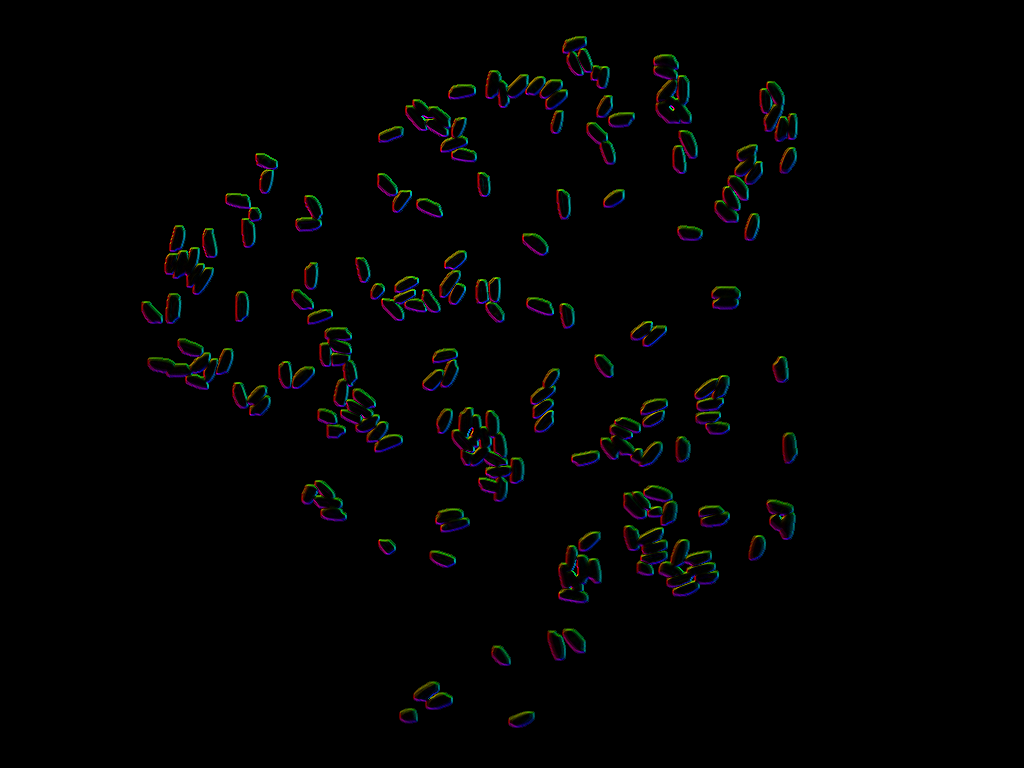
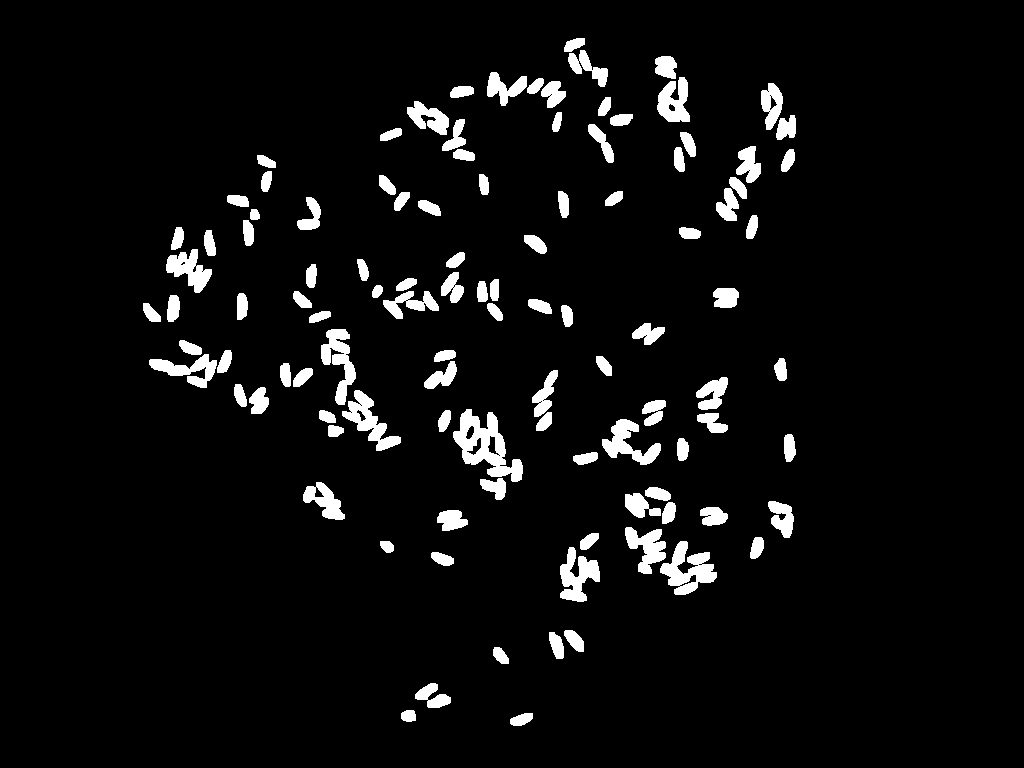
Undo

diff --git a/main.py b/main.py
@@ -4,110 +4,12 @@ import cv2
 
 
 INPUT_IMAGES = (
-#    ('60', '60.bmp'),
-#    ('82', '82.bmp'),
-#    ('114', '114.bmp'),
-#    ('150', '150.bmp'),
+    ('60', '60.bmp'),
+    ('82', '82.bmp'),
+    ('114', '114.bmp'),
+    ('150', '150.bmp'),
     ('205', '205.bmp'),
 )
-
-def orientation_filter(hsv, janela, value_thresh, angle_thresh, mask):
-    h_jan, w_jan = (v//2 for v in janela)
-    height, width, c = hsv.shape
-    out = hsv.copy()
-    for y in range(h_jan, height - h_jan):
-        for x in range(w_jan, width - w_jan):
-            center = hsv[y, x]
-            #centerAngle = (center[0] + 90) % 360
-            if center[2] < value_thresh:
-                continue
-            if mask[y, x] == 0:
-                continue
-            #window = [(-1, -1),  (-1, 1),
-            #          ( 0, -1),  ( 0, 1),
-            #          ( 1, -1),  ( 1, 1),]
-            #if (centerAngle > 45 and centerAngle < 135) or (centerAngle > 225 and centerAngle < 315):
-            #    window = [(-1, -1), (-1, 0), (-1, 1),
-            #              ( 1, -1), ( 1, 0), ( 1, 1),]
-            #for dy, dx in window: 
-            for dy in range(-h_jan, h_jan + 1):
-                for dx in range(-w_jan, w_jan + 1):
-                    if dy == dx == 0 or mask[y + dy, x + dx] == 0 or hsv[y + dy, x + dx][2] > center[2]:
-                        continue
-                    diff = hsv[y + dy, x + dx][0] - center[0]
-                    diff = abs((diff + 360 + 180) % 360 - 180)
-                    if diff < angle_thresh:
-                        out[y + dy, x + dx][2] = max(out[y + dy, x + dx][2], ((angle_thresh - diff)/angle_thresh)*center[2]) #*(hsv[y + dy, x + dx][2]*1.5)
-                        #out[y + dy, x + dx][2] = min(out[y + dy, x + dx][2], center[2], 1.0)
-                        #m = max(out[y + dy, x + dx][2], center[2])
-                        #out[y + dy, x + dx][2] = m #center[2] #min(out[y + dy, x + dx][2]*1.5, 1.0)
-                        #out[y, x][2] = m
-                    #soma += img2[y + dy, x + dx]
-            #img[y, x] = soma/area_janela
-    return out
-
-#def orientation_filter2(hsv, janela, value_thresh, angle_thresh, mask):
-#    h_jan, w_jan = (v//2 for v in janela)
-#    height, width, c = hsv.shape
-#    out = hsv.copy()
-#    for y in range(h_jan, height - h_jan):
-#        for x in range(w_jan, width - w_jan):
-#            center = hsv[y, x]
-#            if center[2] < value_thresh:
-#                continue
-#            if mask[y, x] == 0:
-#                continue
-#            #maxNeighbor = None
-#            minValue = 2.0
-#            for dy in range(-h_jan, h_jan + 1):
-#                for dx in range(-w_jan, w_jan + 1):
-#                    if dy == dx == 0 or mask[y + dy, x + dx] == 0:
-#                        continue
-#                    value = out[y + dy, x + dx][2]
-#                    if value > minValue or value < center[2]:
-#                        continue
-#                    diff = hsv[y + dy, x + dx][0] - center[0]
-#                    diff = abs((diff + 360 + 180) % 360 - 180)
-#                    if diff < angle_thresh:
-#                        minValue = value
-#                        #maxNeighbor, maxValue = (dy, dx), value
-#            #if maxNeighbor:
-#            out[y, x][2] = minValue if minValue < 1.0 else center[2] #out[y + maxNeighbor[0], x + maxNeighbor[1]][2] = max(maxValue, center[2])
-#    return out
-#
-#def orientation_filter3(hsv, janela, value_thresh, angle_thresh, mask):
-#    h_jan, w_jan = (v//2 for v in janela)
-#    height, width, c = hsv.shape
-#    out = hsv.copy()
-#    for y in range(h_jan, height - h_jan):
-#        for x in range(w_jan, width - w_jan):
-#            center = hsv[y, x]
-#            if center[2] < value_thresh:
-#                continue
-#            if mask[y, x] == 0:
-#                continue
-#            centerAngle = (center[0]) % 180 # + 90) % 180
-#            window = [(0, -1), (0, 1)]
-#            if (centerAngle >= 157.5):      window = window
-#            elif (centerAngle >= 112.5):    window = [(-1, -1), (1, 1)]
-#            elif (centerAngle >= 67.5):     window = [(1, 0), (-1, 0)]
-#            elif (centerAngle >= 22.5):     window = [(1, -1), (-1, 1)]
-#            #window = [(-1, -1), (-1, 0), (-1, 1), (0, -1), (0, 1), (1, -1), (1, 0), (1, 1)]
-#            maxNeighbor = None
-#            maxValue = 0
-#            #for dy in range(-h_jan, h_jan + 1):
-#                #for dx in range(-w_jan, w_jan + 1):
-#            for dy, dx in window:
-#                if dy == dx == 0 or mask[y + dy, x + dx] == 0 or hsv[y + dy, x + dx][2] > center[2]:
-#                    continue
-#                diff = hsv[y + dy, x + dx][0] - center[0]
-#                diff = abs((diff + 360 + 180) % 360 - 180)
-#                value = out[y + dy, x + dx][2]
-#                if diff < angle_thresh and value > maxValue and value < center[2]:
-#                    maxNeighbor, maxValue = (dy, dx), value
-#            if maxNeighbor:
-#                out[y + maxNeighbor[0], x + maxNeighbor[1]][2] = center[2] #max(maxValue, center[2])
-#    return out
 
 def main():
     for nome, img in INPUT_IMAGES:
@@ -120,96 +22,24 @@ def main():
         
         blur = cv2.bilateralFilter(img, d=-1, sigmaColor=50, sigmaSpace=3)
         
-        #blur = cv2.adaptiveThreshold(img, maxValue=)
-
         adaptativeThreshold = cv2.adaptiveThreshold(blur, C=-5, blockSize=33, maxValue=1, adaptiveMethod=cv2.ADAPTIVE_THRESH_GAUSSIAN_C, thresholdType=cv2.THRESH_BINARY)
 
         otsuThreshold, globalThreshold = cv2.threshold(blur, thresh=0, maxval=1, type=cv2.THRESH_BINARY+cv2.THRESH_OTSU)
 
-        #canny = cv2.Canny(blur, threshold1=0.5*otsuThreshold, threshold2=otsuThreshold, apertureSize=3)
-
         mask = adaptativeThreshold * globalThreshold
 
         kernel = np.ones((3,3), np.float32)
-        #mask = cv2.morphologyEx(mask, cv2.MORPH_CLOSE, kernel, iterations=1)
-        mask_dilated = cv2.morphologyEx(mask, cv2.MORPH_OPEN, kernel, iterations=2)
-        mask_dilated = cv2.morphologyEx(mask_dilated, cv2.MORPH_DILATE, kernel, iterations=1)
+        mask_open = cv2.morphologyEx(mask, cv2.MORPH_OPEN, kernel, iterations=2)
+        #mask_close = cv2.morphologyEx(mask_open, cv2.MORPH_CLOSE, kernel, iterations=1)
+        #mask_dilated = cv2.morphologyEx(mask_close, cv2.MORPH_DILATE, kernel, iterations=1)
 
-        #canny = canny * mask
-        masked_img = img * mask_dilated
+        #masked_img = img * mask_dilated
+        #canny = cv2.Canny(blur, threshold1=0.5*otsuThreshold, threshold2=otsuThreshold, apertureSize=3)
 
-        #img1 = (img - np.min(img, initial=255, where=img!=0))/(np.max(img) - np.min(img, initial=255, where=img!=0))#np.ptp(img)
-        min = np.min(masked_img, initial=255, where=masked_img!=0)
-        masked_img = np.where(masked_img == 0, min, masked_img)
-
-        masked_img = cv2.normalize(masked_img, None, alpha=0, beta=1.0, norm_type=cv2.NORM_MINMAX, dtype=cv2.CV_32F)
-
-        #canny = cv2.Canny(img, threshold1=0, threshold2=255, apertureSize=3)
-
-        #normalized = img[:]
-        #print(min)
-        #normalized = cv2.normalize(img, normalized, 0, 255, norm_type=cv2.NORM_MINMAX)
-        #cv2.normalize(img1, img, alpha=1, beta=255)
-
-        #equalized = cv2.equalizeHist(img)
-
-        dx = cv2.Sobel(masked_img, cv2.CV_64F, 1, 0, ksize=1)
-        dy = cv2.Sobel(masked_img, cv2.CV_64F, 0, 1, ksize=1)
-
-        mag = cv2.magnitude(dx, dy)
-        orien = cv2.phase(dx, dy, angleInDegrees=True)
-        #orien = orien / 2. # Go from 0:360 to 0:180 
-        hsv = np.zeros((orien.shape[0], orien.shape[1], 3), dtype=np.float32)
-        hsv[..., 0] = orien #orien*2 # H (in Opencv2 between 0:180)
-        hsv[..., 1] = 1.0 #255 # S
-        hsv[..., 2] = cv2.normalize(mag, None, 0, 1.0, cv2.NORM_MINMAX) # V 0:255
-
-        hsv_oriented = hsv[:]
-        for i in range(10):
-            hsv_oriented = orientation_filter(hsv_oriented, (3, 3), 0, 30, mask_dilated)
-            #hsv_oriented = orientation_filter(hsv_oriented, (3, 3), 0.5, 180, mask_dilated)
-
-        bgr = cv2.cvtColor(hsv, cv2.COLOR_HSV2BGR)
-        bgr_oriented = cv2.cvtColor(hsv_oriented, cv2.COLOR_HSV2BGR)
-
-        #laplacian = cv2.Laplacian(equalized, cv2.CV_64F)
-
-        #canny = cv2.Canny(equalized, threshold1=0.5*otsuThreshold, threshold2=otsuThreshold, apertureSize=3)
-
-        #out = cv2.GaussianBlur(out, ksize=(0, 0), sigmaX=2.0)
-
-        #out = blur[:] - (out[:] + 1)
-
-        #out = (out.astype(np.float32)/255) * blur
-
-        #out = np.where(out > 200, out, 0)
-        #out = out*255
-        #out = blur*0.5 + (out * blur)*0.5
-
-        # CannyAccThresh = cv2.threshold(img ,0,255, cv2.THRESH_BINARY|cv2.THRESH_OTSU)
-
-        # CannyThresh = 0.1 * CannyAccThresh
+        #contours, hierarchy = cv2.findContours((hsv_oriented[..., 2]*255).astype(np.uint8), cv2.RETR_EXTERNAL, cv2.CHAIN_APPROX_NONE)
+        #cv2.drawContours(bgr_oriented, contours, -1, (0, 255, 0), 1)
         
-        #edges = cv2.Canny(out, 75, 100, 5)
-
-        contours, hierarchy = cv2.findContours((hsv_oriented[..., 2]*255).astype(np.uint8), cv2.RETR_EXTERNAL, cv2.CHAIN_APPROX_NONE)
-        cv2.drawContours(bgr_oriented, contours, -1, (0, 255, 0), 1)
-        
-        '''blur = cv2.bilateralFilter(img, 9, 75, 75)
-        thr = cv2.adaptiveThreshold(blur, 255, cv2.ADAPTIVE_THRESH_MEAN_C, cv2.THRESH_BINARY_INV, 31, 2)
-        
-        #ret, threshold2 = cv2.threshold(threshold, 0, 255, cv2.THRESH_BINARY_INV+cv2.THRESH_OTSU)
-
-        kernel = np.ones((3,3), np.float32)
-        abertura = cv2.morphologyEx(thr, cv2.MORPH_OPEN, kernel, iterations=3)
-        fechamento = cv2.morphologyEx(abertura, cv2.MORPH_CLOSE, kernel, iterations=1)'''
-
-
-        cv2.imwrite(f'test{nome}.png', bgr*255)
-        cv2.imwrite(f'test{nome}-oriented.png', bgr_oriented*255)
-        cv2.imwrite(f'test{nome}-diff.png', (bgr_oriented - bgr)*255)
-        cv2.imwrite(f'test{nome}-mag.png', hsv_oriented[..., 2]*255)
-        cv2.imwrite(f'test{nome}-countour.png', hsv_oriented[..., 2]*255)
+        cv2.imwrite(f'test{nome}.png', mask_open*255)
         
 
 if __name__ == '__main__':
